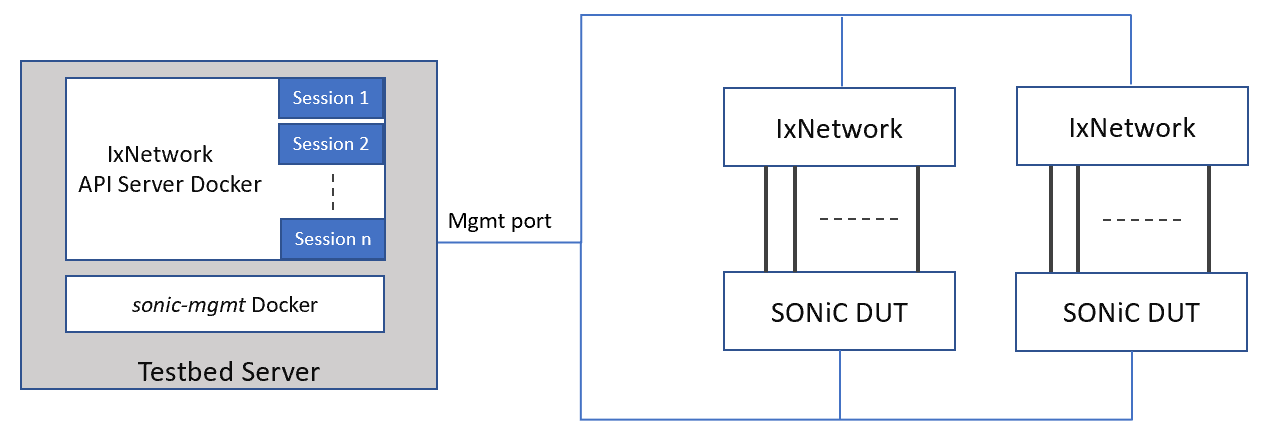
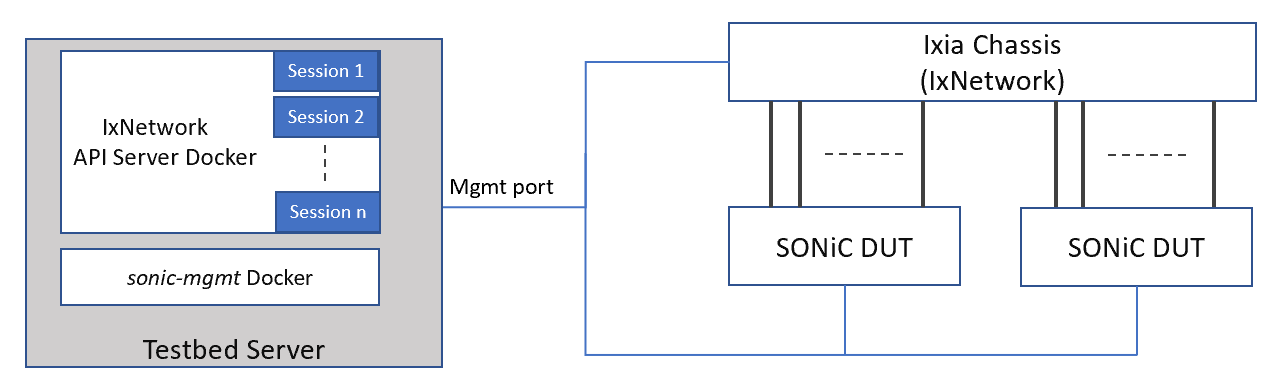
Modified topo diagram of Ixia Chassis

diff --git a/ansible/doc/README.testbed.Overview.md b/ansible/doc/README.testbed.Overview.md
@@ -76,7 +76,7 @@ Based on test need there may be multiple topologies possible as shown below :
 
 ## Topology Description
 
-### IxNetwork
+### Ixia Chassis (IxNetwork)
 Keysight IxNetwork is used as the network tester to emulate protocol sessions eg. OSPF, BGP, LACP etc. and send data traffic with various user defined traffic profiles at line rate. Based on test need this can support line cards of varying speed ranging from 1G to 400G. It also supports vlan separated logical interfaces over each physical port.
 
 ### IxNetwork API Server Docker
